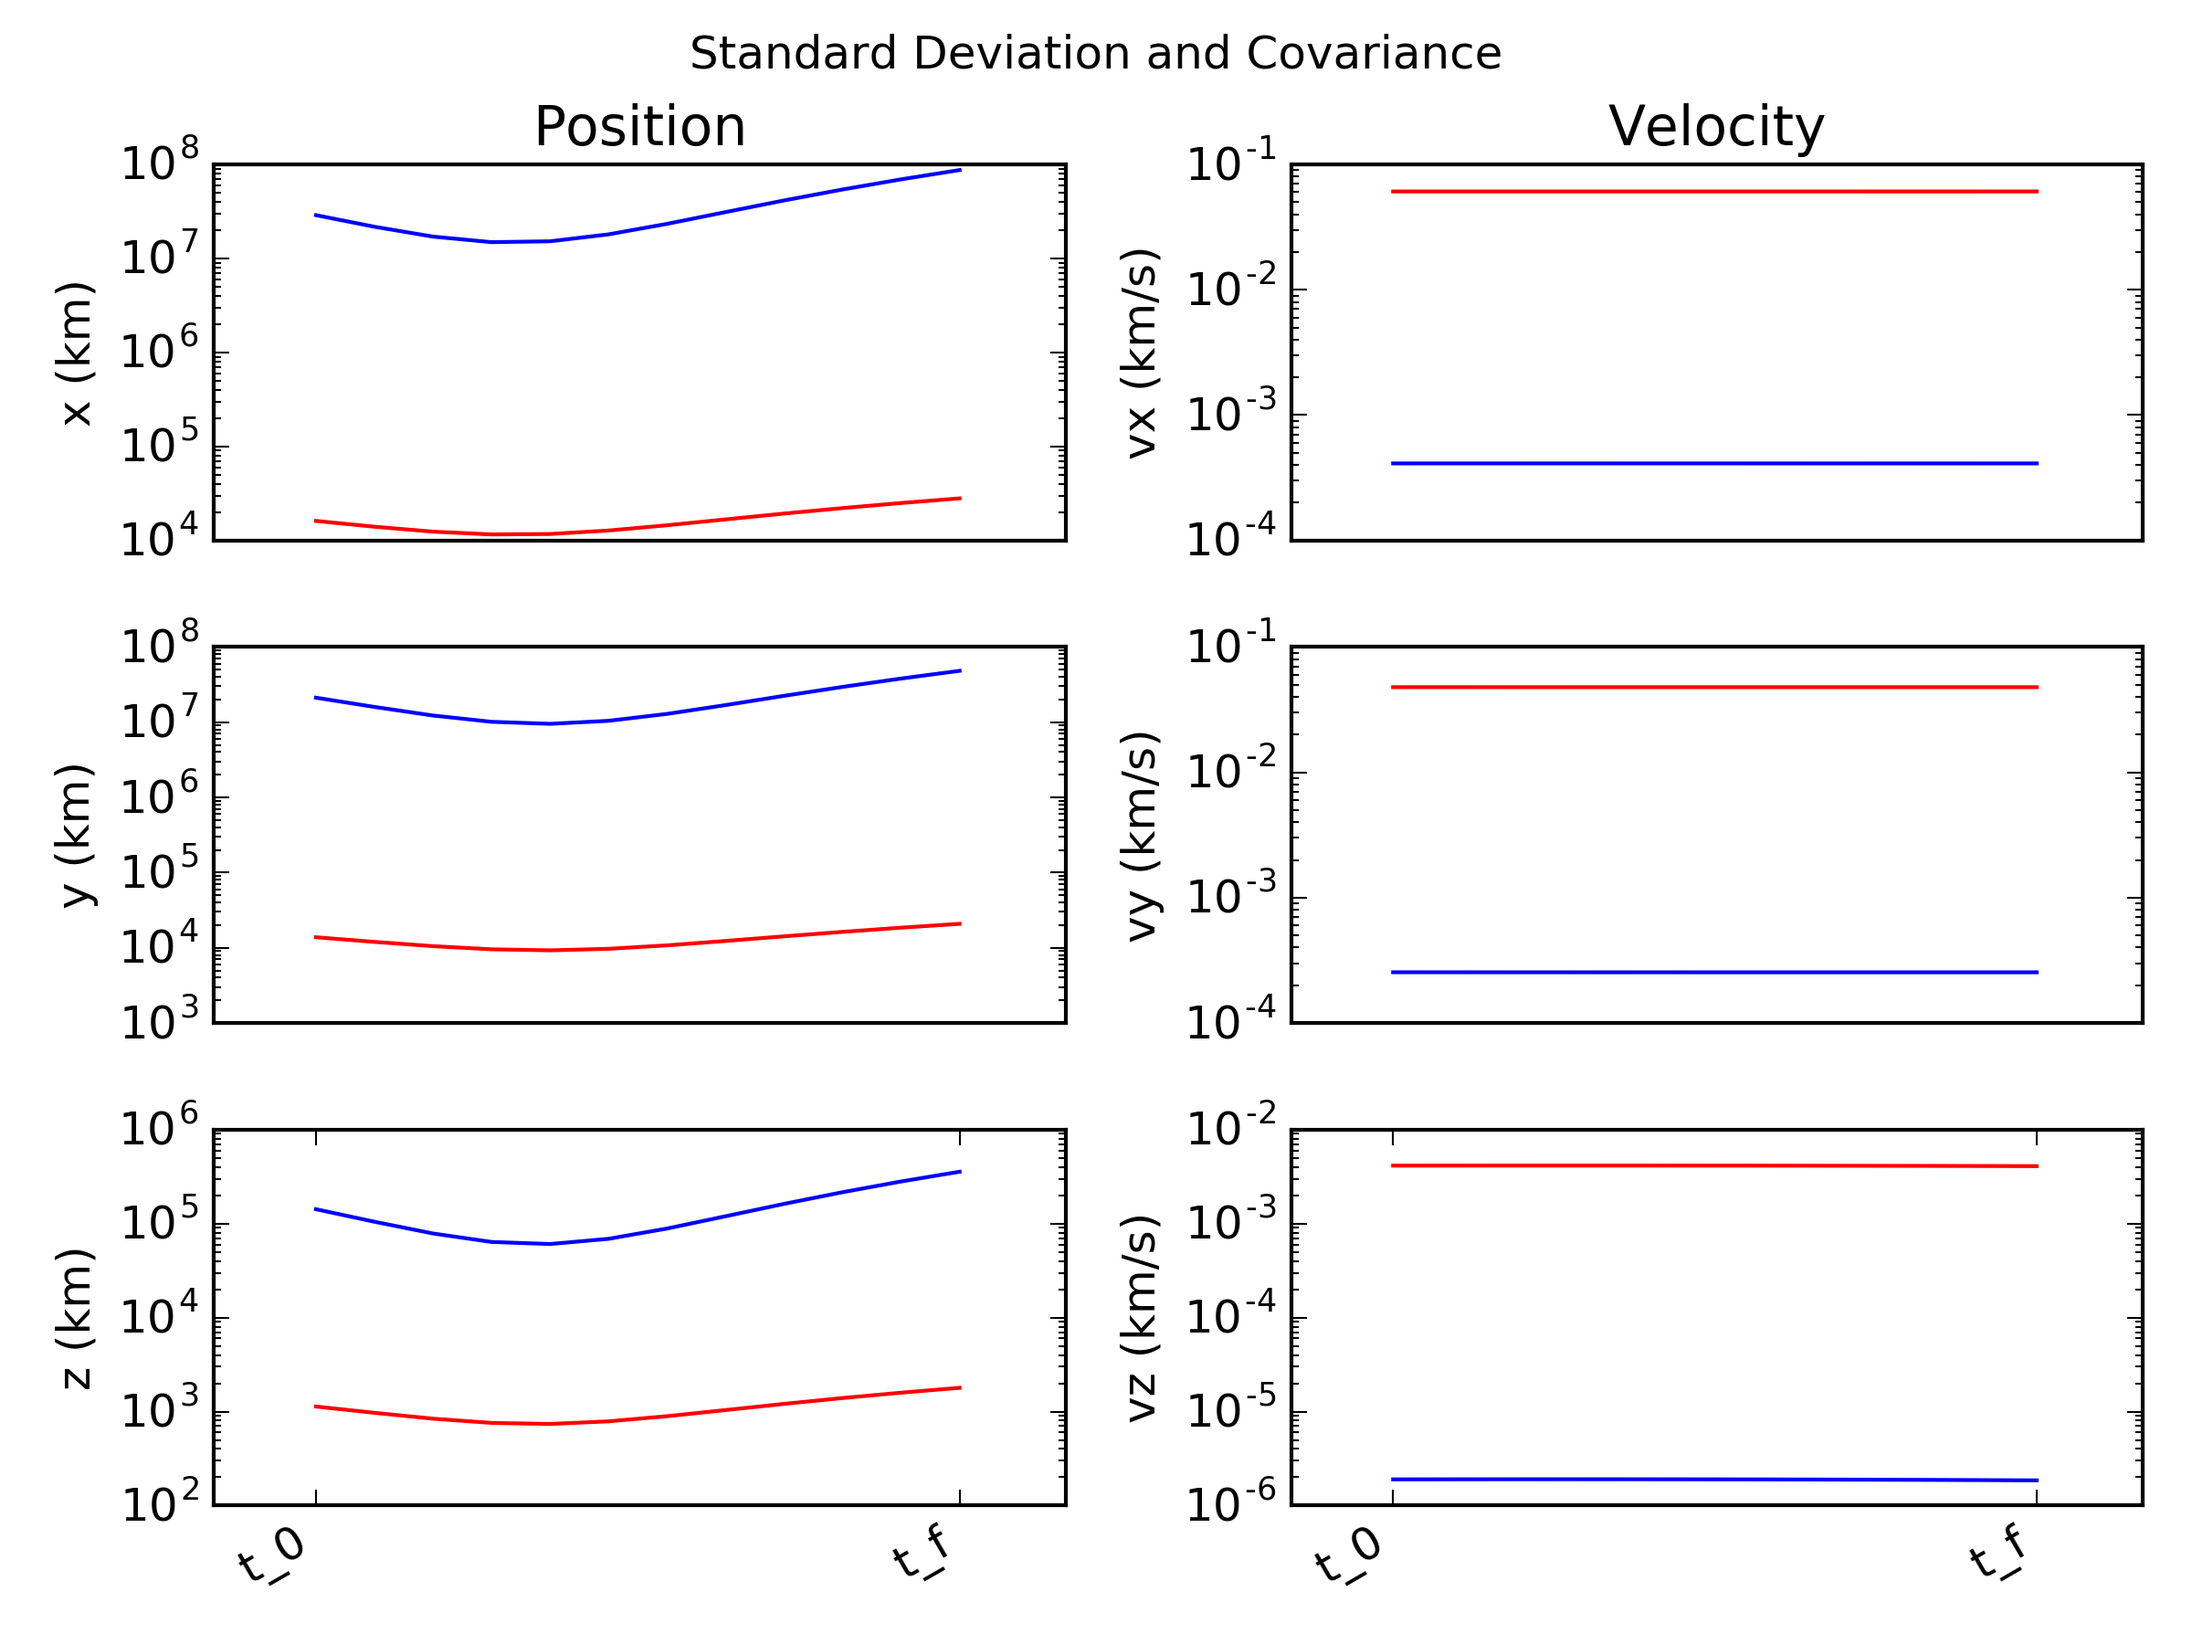
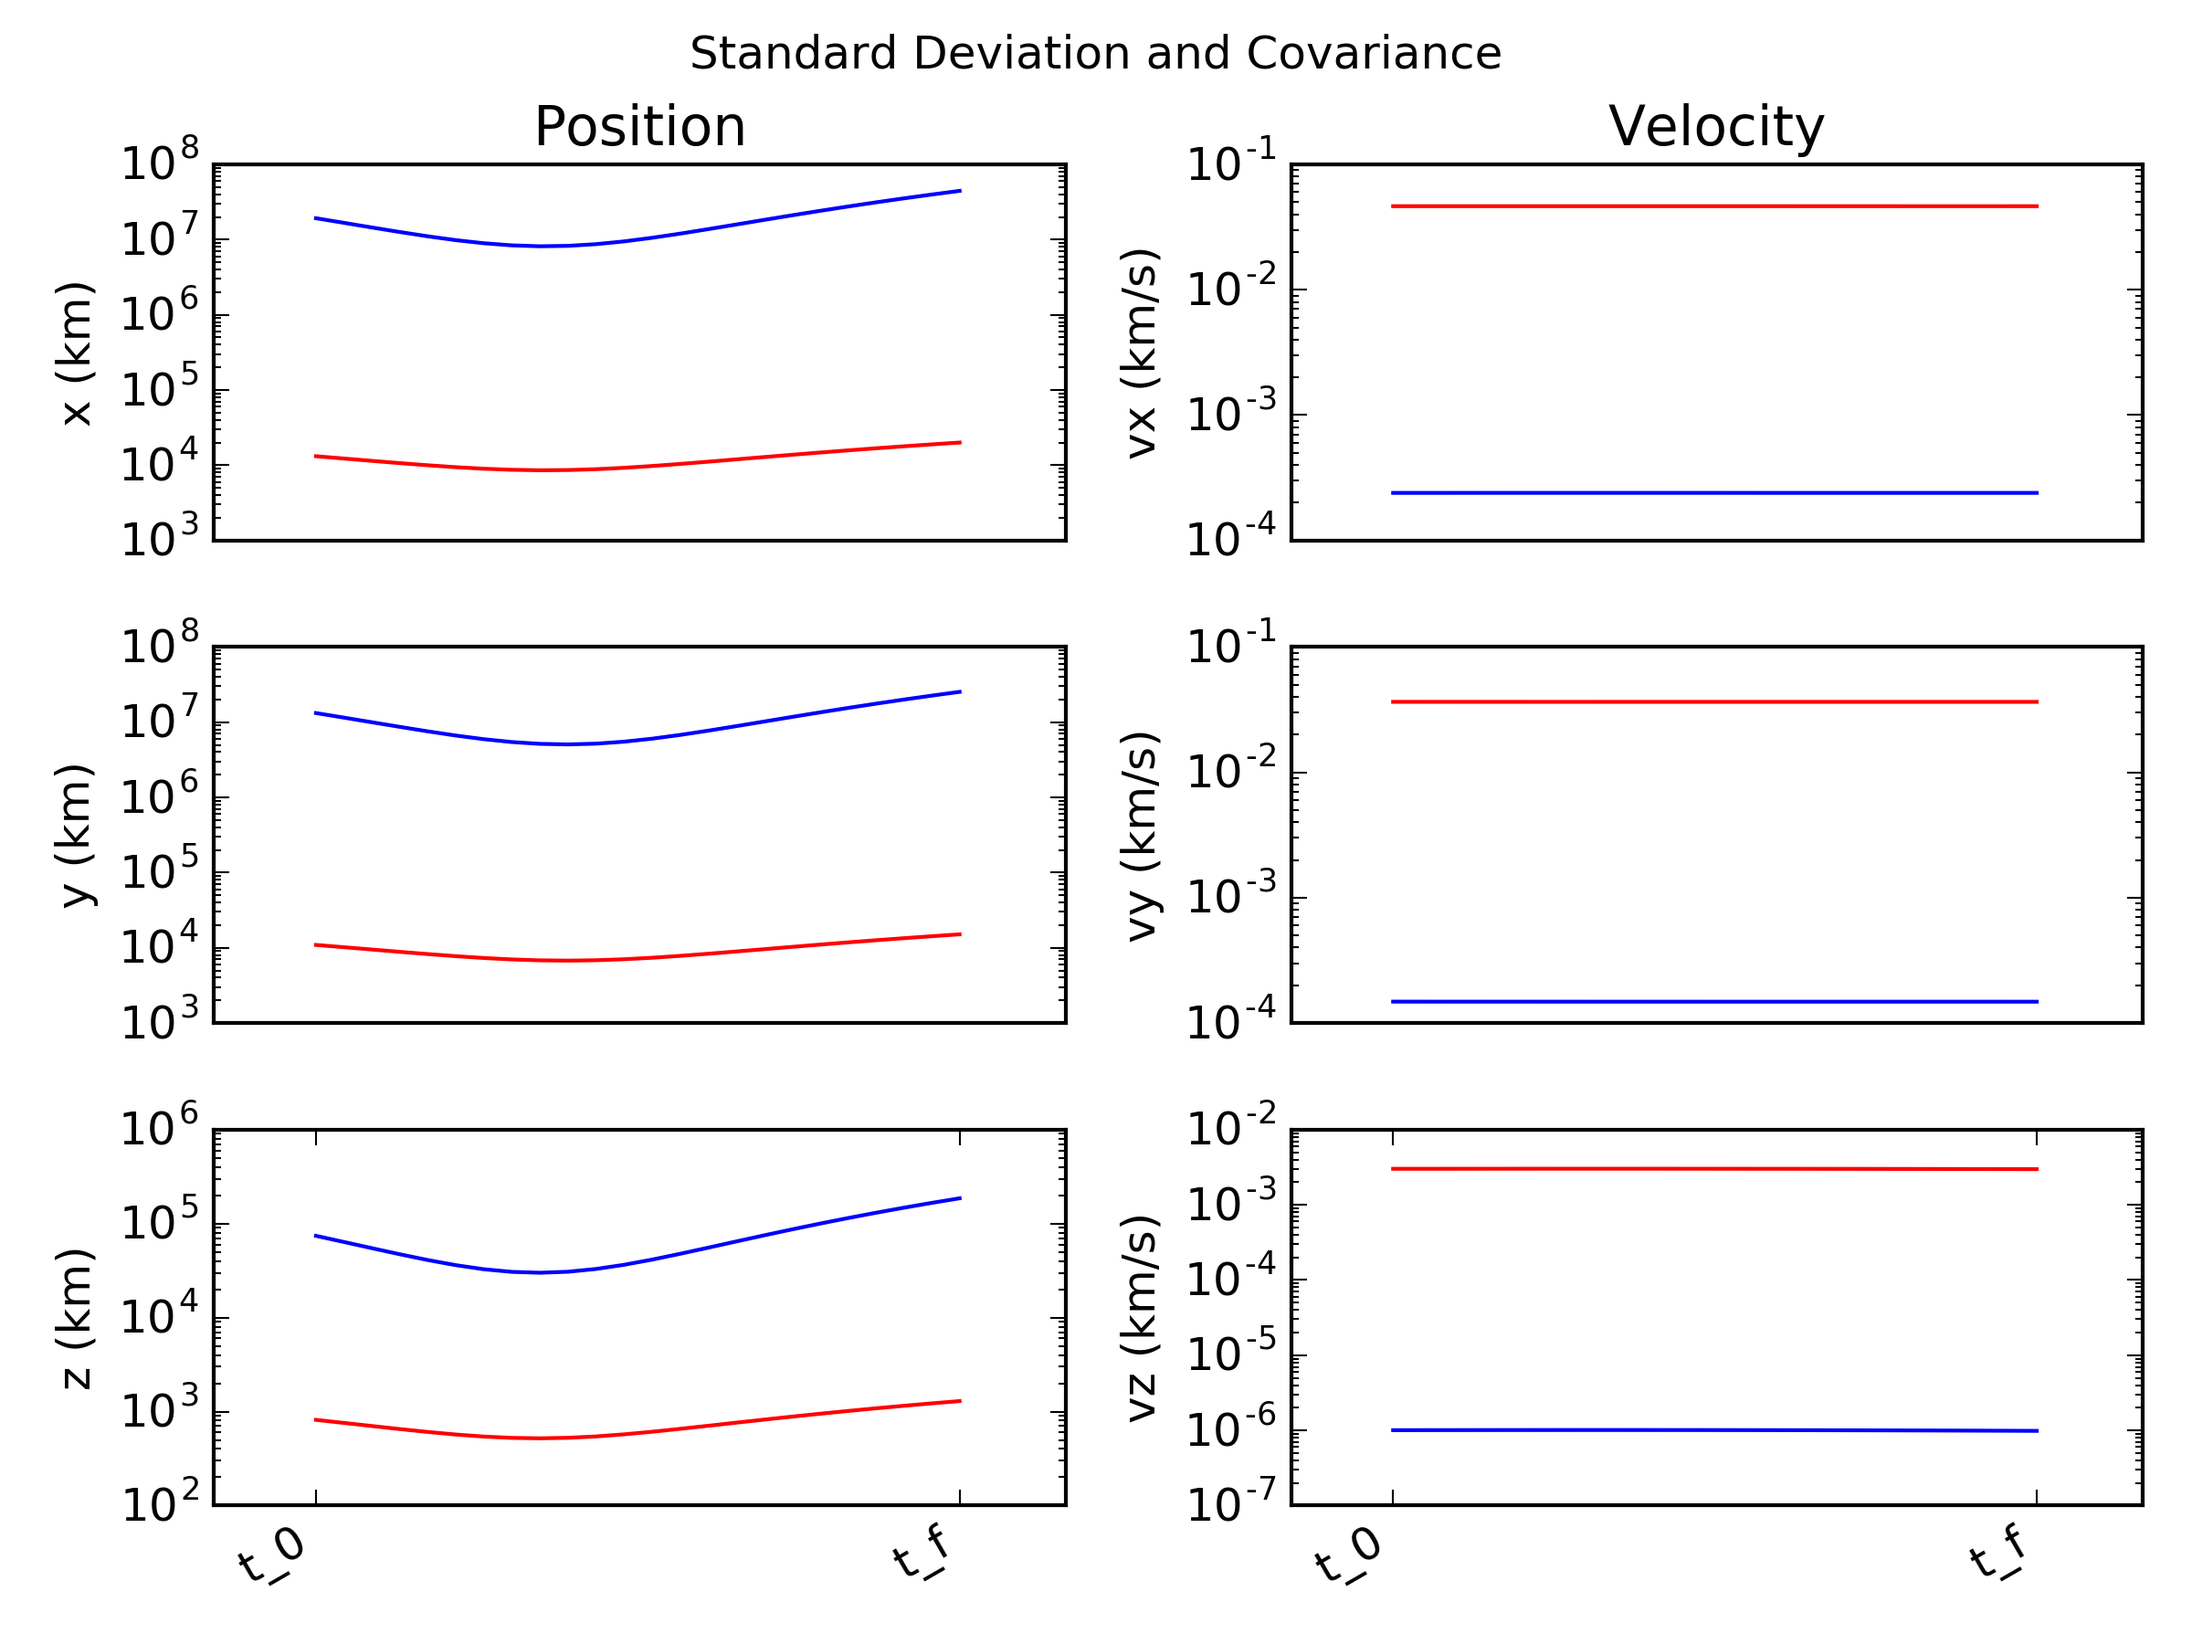
pushed for debugging. run with init_acc.py

diff --git a/DINObatch/P&L/init_acc.py b/DINObatch/P&L/init_acc.py
@@ -66,19 +66,19 @@ def writingText(itr, ref_state, est_state, true_ephem, extra_data, position_erro
     ResultString += 'Actual Error = ' + str(position_error) + str(velocity_error) + '\n'
     ResultString += '\n'
 
-    ResultString += 'Last X Pos err = ' + str(err[-1, 0]) + '\n'
-    ResultString += 'Last Y Pos err = ' + str(err[-1, 1]) + '\n'
-    ResultString += 'Last Z Pos err = ' + str(err[-1, 2]) + '\n'
-    ResultString += 'Last X Vel err = ' + str(err[-1, 3]) + '\n'
-    ResultString += 'Last Y Vel err = ' + str(err[-1, 4]) + '\n'
-    ResultString += 'Last Z Vel err = ' + str(err[-1, 5]) + '\n'
+    ResultString += 'Ref X Pos err = ' + str(err[-1, 0]) + '\n'
+    ResultString += 'Ref Y Pos err = ' + str(err[-1, 1]) + '\n'
+    ResultString += 'Ref Z Pos err = ' + str(err[-1, 2]) + '\n'
+    ResultString += 'Ref X Vel err = ' + str(err[-1, 3]) + '\n'
+    ResultString += 'Ref Y Vel err = ' + str(err[-1, 4]) + '\n'
+    ResultString += 'Ref Z Vel err = ' + str(err[-1, 5]) + '\n'
     ResultString += '\n'
-    ResultString += 'Last X Pos err = ' + str(err_hat[-1, 0]) + '\n'
-    ResultString += 'Last Y Pos err = ' + str(err_hat[-1, 1]) + '\n'
-    ResultString += 'Last Z Pos err = ' + str(err_hat[-1, 2]) + '\n'
-    ResultString += 'Last X Vel err = ' + str(err_hat[-1, 3]) + '\n'
-    ResultString += 'Last Y Vel err = ' + str(err_hat[-1, 4]) + '\n'
-    ResultString += 'Last Z Vel err = ' + str(err_hat[-1, 5]) + '\n'
+    ResultString += 'Est X Pos err = ' + str(err_hat[-1, 0]) + '\n'
+    ResultString += 'Est Y Pos err = ' + str(err_hat[-1, 1]) + '\n'
+    ResultString += 'Est Z Pos err = ' + str(err_hat[-1, 2]) + '\n'
+    ResultString += 'Est X Vel err = ' + str(err_hat[-1, 3]) + '\n'
+    ResultString += 'Est Y Vel err = ' + str(err_hat[-1, 4]) + '\n'
+    ResultString += 'Est Z Vel err = ' + str(err_hat[-1, 5]) + '\n'
     ResultString += '\n'
 
     print ResultString
@@ -172,7 +172,9 @@ def main():
     extras['ref_frame'] = 'J2000'
 
     # SRP parameter
-    extras['SRP'] = -20 * 4.57 * 10 ** (-6)
+    # extras['SRP'] = -4.57 * 10 ** (-6) # N/m**2 -> kg m / (s**2 m**2) -> kg / (m s**2)
+    # A/M ratio multiplied by solar pressure constant at 1 AU with adjustments
+    extras['SRP'] = 0.3**2/14. * 149597870.**2 * 1358. / 299792458. / 1000. # turboprop document Eq (64)
 
     # coefficient of reflectivity
     extras['cR'] = 1
@@ -213,7 +215,7 @@ def main():
     extras['line_direction'] = 1.
 
     # Are we using the real dynamics for the ref or the trueData
-    extras['realData']= 'ON'
+    extras['realData']= 'OFF'
 
     ##################################################################################
 
@@ -270,9 +272,9 @@ def main():
     P_bar[3, 3] = .1**2
     P_bar[4, 4] = .1**2
     P_bar[5, 5] = .1**2
-    P_bar[6, 6] = (10**(-3))**2
-    P_bar[7, 7] = (10**(-3))**2
-    P_bar[8, 8] = (10**(-3))**2
+    P_bar[6, 6] = (10**(-8))**2
+    P_bar[7, 7] = (10**(-8))**2
+    P_bar[8, 8] = (10**(-8))**2
 
     # position_error = np.zeros(3)
     # velocity_error = np.zeros(3)
@@ -340,17 +342,17 @@ def main():
         err_hat = est_state[:, 0:6] - true_ephem['spacecraft'].T
 
         x_hat_array = extra_data['x_hat_array']
-        P_array = extra_data['P_array']
-        prefits = extra_data['prefit residuals']
-        postfits = extra_data['postfit residuals']
+        P_array     = extra_data['P_array']
+        prefits     = extra_data['prefit residuals']
+        postfits    = extra_data['postfit residuals']
         beacon_list = extra_data['Y']['beacons']
-        Y_observed = extra_data['Y']['data']
-        Y_truth = extra_data['Y']['truth']
+        Y_observed  = extra_data['Y']['data']
+        Y_truth     = extra_data['Y']['truth']
 
-        stand_devs = 3. * np.array([np.sqrt(np.fabs(np.diag(P))) for P in P_array])
+        stand_devs  = 3. * np.array([np.sqrt(np.fabs(np.diag(P))) for P in P_array])
 
         plt.figure(1)
-        plt.subplot(321)
+        plt.subplot(331)
         plt.plot(t_span, stand_devs[:, 0], 'r--', t_span, -1 * stand_devs[:, 0], 'r--')
         plt.plot(t_span, x_hat_array[:, 0], 'k.')
         plt.ylabel('x (km)')
@@ -358,14 +360,14 @@ def main():
         plt.title('Position')
         plt.ylim((-np.max(stand_devs[:, 0]), np.max(stand_devs[:, 0])))
 
-        plt.subplot(323)
+        plt.subplot(334)
         plt.plot(t_span, stand_devs[:, 1], 'r--', t_span, -1 * stand_devs[:, 1], 'r--')
         plt.plot(t_span, x_hat_array[:, 1], 'k.')
         plt.ylabel('y (km)')
         plt.xticks([])
         plt.ylim((-np.max(stand_devs[:, 1]), np.max(stand_devs[:, 1])))
 
-        plt.subplot(325)
+        plt.subplot(337)
         plt.plot(t_span, stand_devs[:, 2], 'r--', t_span, -1 * stand_devs[:, 2], 'r--')
         plt.plot(t_span, x_hat_array[:, 2], 'k.')
         plt.ylabel('z (km)')
@@ -374,7 +376,7 @@ def main():
         ax.set_xticklabels(['t_0', 't_f'])
         plt.ylim((-np.max(stand_devs[:, 2]), np.max(stand_devs[:, 2])))
 
-        plt.subplot(322)
+        plt.subplot(332)
         plt.plot(t_span, stand_devs[:, 3], 'r--', t_span, -1 * stand_devs[:, 3], 'r--')
         plt.plot(t_span, x_hat_array[:, 3], 'k.')
         plt.ylabel('vx (km/s)')
@@ -383,14 +385,14 @@ def main():
         plt.ylim((-np.max(stand_devs[:, 3]), np.max(stand_devs[:, 3])))
 
 
-        plt.subplot(324)
+        plt.subplot(335)
         plt.plot(t_span, stand_devs[:, 4], 'r--', t_span, -1 * stand_devs[:, 4], 'r--')
         plt.plot(t_span, x_hat_array[:, 4], 'k.')
         plt.ylabel('vy (km/s)')
         plt.xticks([])
         plt.ylim((-np.max(stand_devs[:, 4]), np.max(stand_devs[:, 4])))
 
-        plt.subplot(326)
+        plt.subplot(338)
         plt.plot(t_span, stand_devs[:, 5], 'r--', t_span, -1 * stand_devs[:, 5], 'r--')
         plt.plot(t_span, x_hat_array[:, 5], 'k.')
         plt.ylabel('vz (km/s)')
@@ -398,6 +400,31 @@ def main():
         ax = plt.gca()
         ax.set_xticklabels(['t_0', 't_f'])
         plt.ylim((-np.max(stand_devs[:, 5]), np.max(stand_devs[:, 5])))
+
+        plt.subplot(333)
+        plt.plot(t_span, stand_devs[:, 6], 'r--', t_span, -1 * stand_devs[:, 6], 'r--')
+        plt.plot(t_span, x_hat_array[:, 6], 'k.')
+        plt.ylabel('ax (km/s)')
+        plt.xticks([])
+        plt.title('Accelerations')
+        plt.ylim((-1.1*np.max(stand_devs[:, 6]), 1.1*np.max(stand_devs[:, 6])))
+
+
+        plt.subplot(336)
+        plt.plot(t_span, stand_devs[:, 7], 'r--', t_span, -1 * stand_devs[:, 7], 'r--')
+        plt.plot(t_span, x_hat_array[:, 7], 'k.')
+        plt.ylabel('ay (km/s)')
+        plt.xticks([])
+        plt.ylim((-1.1*np.max(stand_devs[:, 7]), 1.1*np.max(stand_devs[:, 7])))
+
+        plt.subplot(339)
+        plt.plot(t_span, stand_devs[:, 8], 'r--', t_span, -1 * stand_devs[:, 8], 'r--')
+        plt.plot(t_span, x_hat_array[:, 8], 'k.')
+        plt.ylabel('az (km/s)')
+        plt.xticks([min(t_span), max(t_span)], rotation=30, ha='right')
+        ax = plt.gca()
+        ax.set_xticklabels(['t_0', 't_f'])
+        plt.ylim((-1.1*np.max(stand_devs[:, 8]), 1.1*np.max(stand_devs[:, 8])))
 
         plt.suptitle('State Errors' + ' $\hat{x}$' + ' and Covariance Bounds')
         plt.tight_layout()
@@ -633,7 +660,7 @@ def main():
         plt.subplot(121)
         plt.plot(t_span, Y_observed[:, 0] - Y_truth[:, 0])
         plt.xticks([])
-        plt.title('Range (km)')
+        plt.title('Pixel (-)')
         plt.ylabel('Added Error')
         plt.xticks(t_span, rotation=90, ha='right')
         ax = plt.gca()
@@ -642,7 +669,7 @@ def main():
         plt.subplot(122)
         plt.plot(t_span, Y_observed[:, 1] - Y_truth[:, 1])
         plt.xticks([])
-        plt.title('Range Rate (km/s)')
+        plt.title('Line (-)')
         plt.xticks(t_span, rotation=90, ha='right')
         ax = plt.gca()
         ax.set_xticklabels(beacon_list)

diff --git a/DINObatch/P&L/init.py b/DINObatch/P&L/init.py
@@ -65,19 +65,19 @@ def writingText(itr, ref_state, est_state, true_ephem, extra_data, position_erro
     ResultString += 'Actual Error = ' + str(position_error) + str(velocity_error) + '\n'
     ResultString += '\n'
 
-    ResultString += 'Last X Pos err = ' + str(err[-1, 0]) + '\n'
-    ResultString += 'Last Y Pos err = ' + str(err[-1, 1]) + '\n'
-    ResultString += 'Last Z Pos err = ' + str(err[-1, 2]) + '\n'
-    ResultString += 'Last X Vel err = ' + str(err[-1, 3]) + '\n'
-    ResultString += 'Last Y Vel err = ' + str(err[-1, 4]) + '\n'
-    ResultString += 'Last Z Vel err = ' + str(err[-1, 5]) + '\n'
+    ResultString += 'Ref X Pos err = ' + str(err[-1, 0]) + '\n'
+    ResultString += 'Ref Y Pos err = ' + str(err[-1, 1]) + '\n'
+    ResultString += 'Ref Z Pos err = ' + str(err[-1, 2]) + '\n'
+    ResultString += 'Ref X Vel err = ' + str(err[-1, 3]) + '\n'
+    ResultString += 'Ref Y Vel err = ' + str(err[-1, 4]) + '\n'
+    ResultString += 'Ref Z Vel err = ' + str(err[-1, 5]) + '\n'
     ResultString += '\n'
-    ResultString += 'Last X Pos err = ' + str(err_hat[-1, 0]) + '\n'
-    ResultString += 'Last Y Pos err = ' + str(err_hat[-1, 1]) + '\n'
-    ResultString += 'Last Z Pos err = ' + str(err_hat[-1, 2]) + '\n'
-    ResultString += 'Last X Vel err = ' + str(err_hat[-1, 3]) + '\n'
-    ResultString += 'Last Y Vel err = ' + str(err_hat[-1, 4]) + '\n'
-    ResultString += 'Last Z Vel err = ' + str(err_hat[-1, 5]) + '\n'
+    ResultString += 'Est X Pos err = ' + str(err_hat[-1, 0]) + '\n'
+    ResultString += 'Est Y Pos err = ' + str(err_hat[-1, 1]) + '\n'
+    ResultString += 'Est Z Pos err = ' + str(err_hat[-1, 2]) + '\n'
+    ResultString += 'Est X Vel err = ' + str(err_hat[-1, 3]) + '\n'
+    ResultString += 'Est Y Vel err = ' + str(err_hat[-1, 4]) + '\n'
+    ResultString += 'Est Z Vel err = ' + str(err_hat[-1, 5]) + '\n'
     ResultString += '\n'
 
     print ResultString
@@ -171,7 +171,8 @@ def main():
     extras['ref_frame'] = 'J2000'
 
     # SRP parameter
-    extras['SRP'] = -20 * 4.57 * 10 ** (-6)
+    # A/M ratio multiplied by solar pressure constant at 1 AU with adjustments
+    extras['SRP'] = 0.3**2/14. * 149597870.**2 * 1358. / 299792458. / 1000. # turboprop document Eq (64)
 
     # coefficient of reflectivity
     extras['cR'] = 1
@@ -212,7 +213,7 @@ def main():
     extras['line_direction'] = 1.
 
     # Are we using the real dynamics for the ref or the trueData
-    extras['realData']= 'ON'
+    extras['realData']= 'OFF'
 
     ##################################################################################
 

diff --git a/DINObatch/P&L/batchFilterAcc.py b/DINObatch/P&L/batchFilterAcc.py
@@ -18,6 +18,7 @@ __date__ = '$Date$'[7:26]
 
 import scipy.integrate as integ
 import numpy as np
+import pdb
 
 from pixelLineBatch import fncH
 from pixelLineBatch import fncG
@@ -184,7 +185,7 @@ def run_batch( input ) :
 
   # using the inputs of G, calculate the H matrix
   H_inputs = ( ref_state[:,0:n_state], SPICE_data_GH, extras )
-  H_tilde   = fncH( H_inputs )
+  H_tilde  = fncH( H_inputs )
 
   # calculate the deviation of the observables ( Y - G )
   y    = Y_obs['data'] - Y_refs
@@ -199,8 +200,8 @@ def run_batch( input ) :
       # RANGE AND RANGE RATE BATCH - hard coded 2 for observation type size
       H    = np.dot( H_tilde[0+2*ii:2+2*ii,:], phi_t_t0 )
       # add the new H^T H result to the information matrix
-      info_matrix   += np.dot( H.T, np.dot( W, H ) )
-      P_array[ii,:,:]   = aInv( info_matrix )
+      info_matrix    += np.dot( H.T, np.dot( W, H ) )
+      P_array[ii,:,:] = aInv( info_matrix )
       # add the H^T Y result to the observation information matrix
       normal_matrix += np.dot( H.T, np.dot( W, np.expand_dims(y[ii,:],axis=1) ) )
 

diff --git a/DINObatch/P&L/posVelAcc.py b/DINObatch/P&L/posVelAcc.py
@@ -84,9 +84,9 @@ def matrixA(input):
     # total r_spacecraft derivatives of forces
     dFdR = dFdR_p + dFdR_s + dFdR_SRP
 
-    # populate the A matrix, where each row (D) is a time derivative of a QoI
-    # and each column (E) is a derivative taken with respect to each QoI
-    # unmodeled acceleration terms (ax, ay, az) are constant wrt time
+    # populate the A matrix, where each row (D) is a time derivative of a QoI.
+    # and each column (E) is the QoI that the A matrix derivative is taken wrt.
+    # unmodeled acceleration terms (ax, ay, az) are constant wrt time.
     # [D,E]
     #       X | Y | Z | dX | dY | dZ | ax | ay | az |
     # dX
@@ -166,7 +166,7 @@ def EOM(state, et, primary_index, secondary_indices, n_secondaries, mu_primary, 
 
     # SRP force
     f_SRP = cR * kSRP * (state[0:3] - r_sun) / np.linalg.norm(state[0:3] - r_sun) ** 3
-    
+
     # total force (acceleration) vector
     f = f_primary + f_3rd_bodies + f_SRP
 
